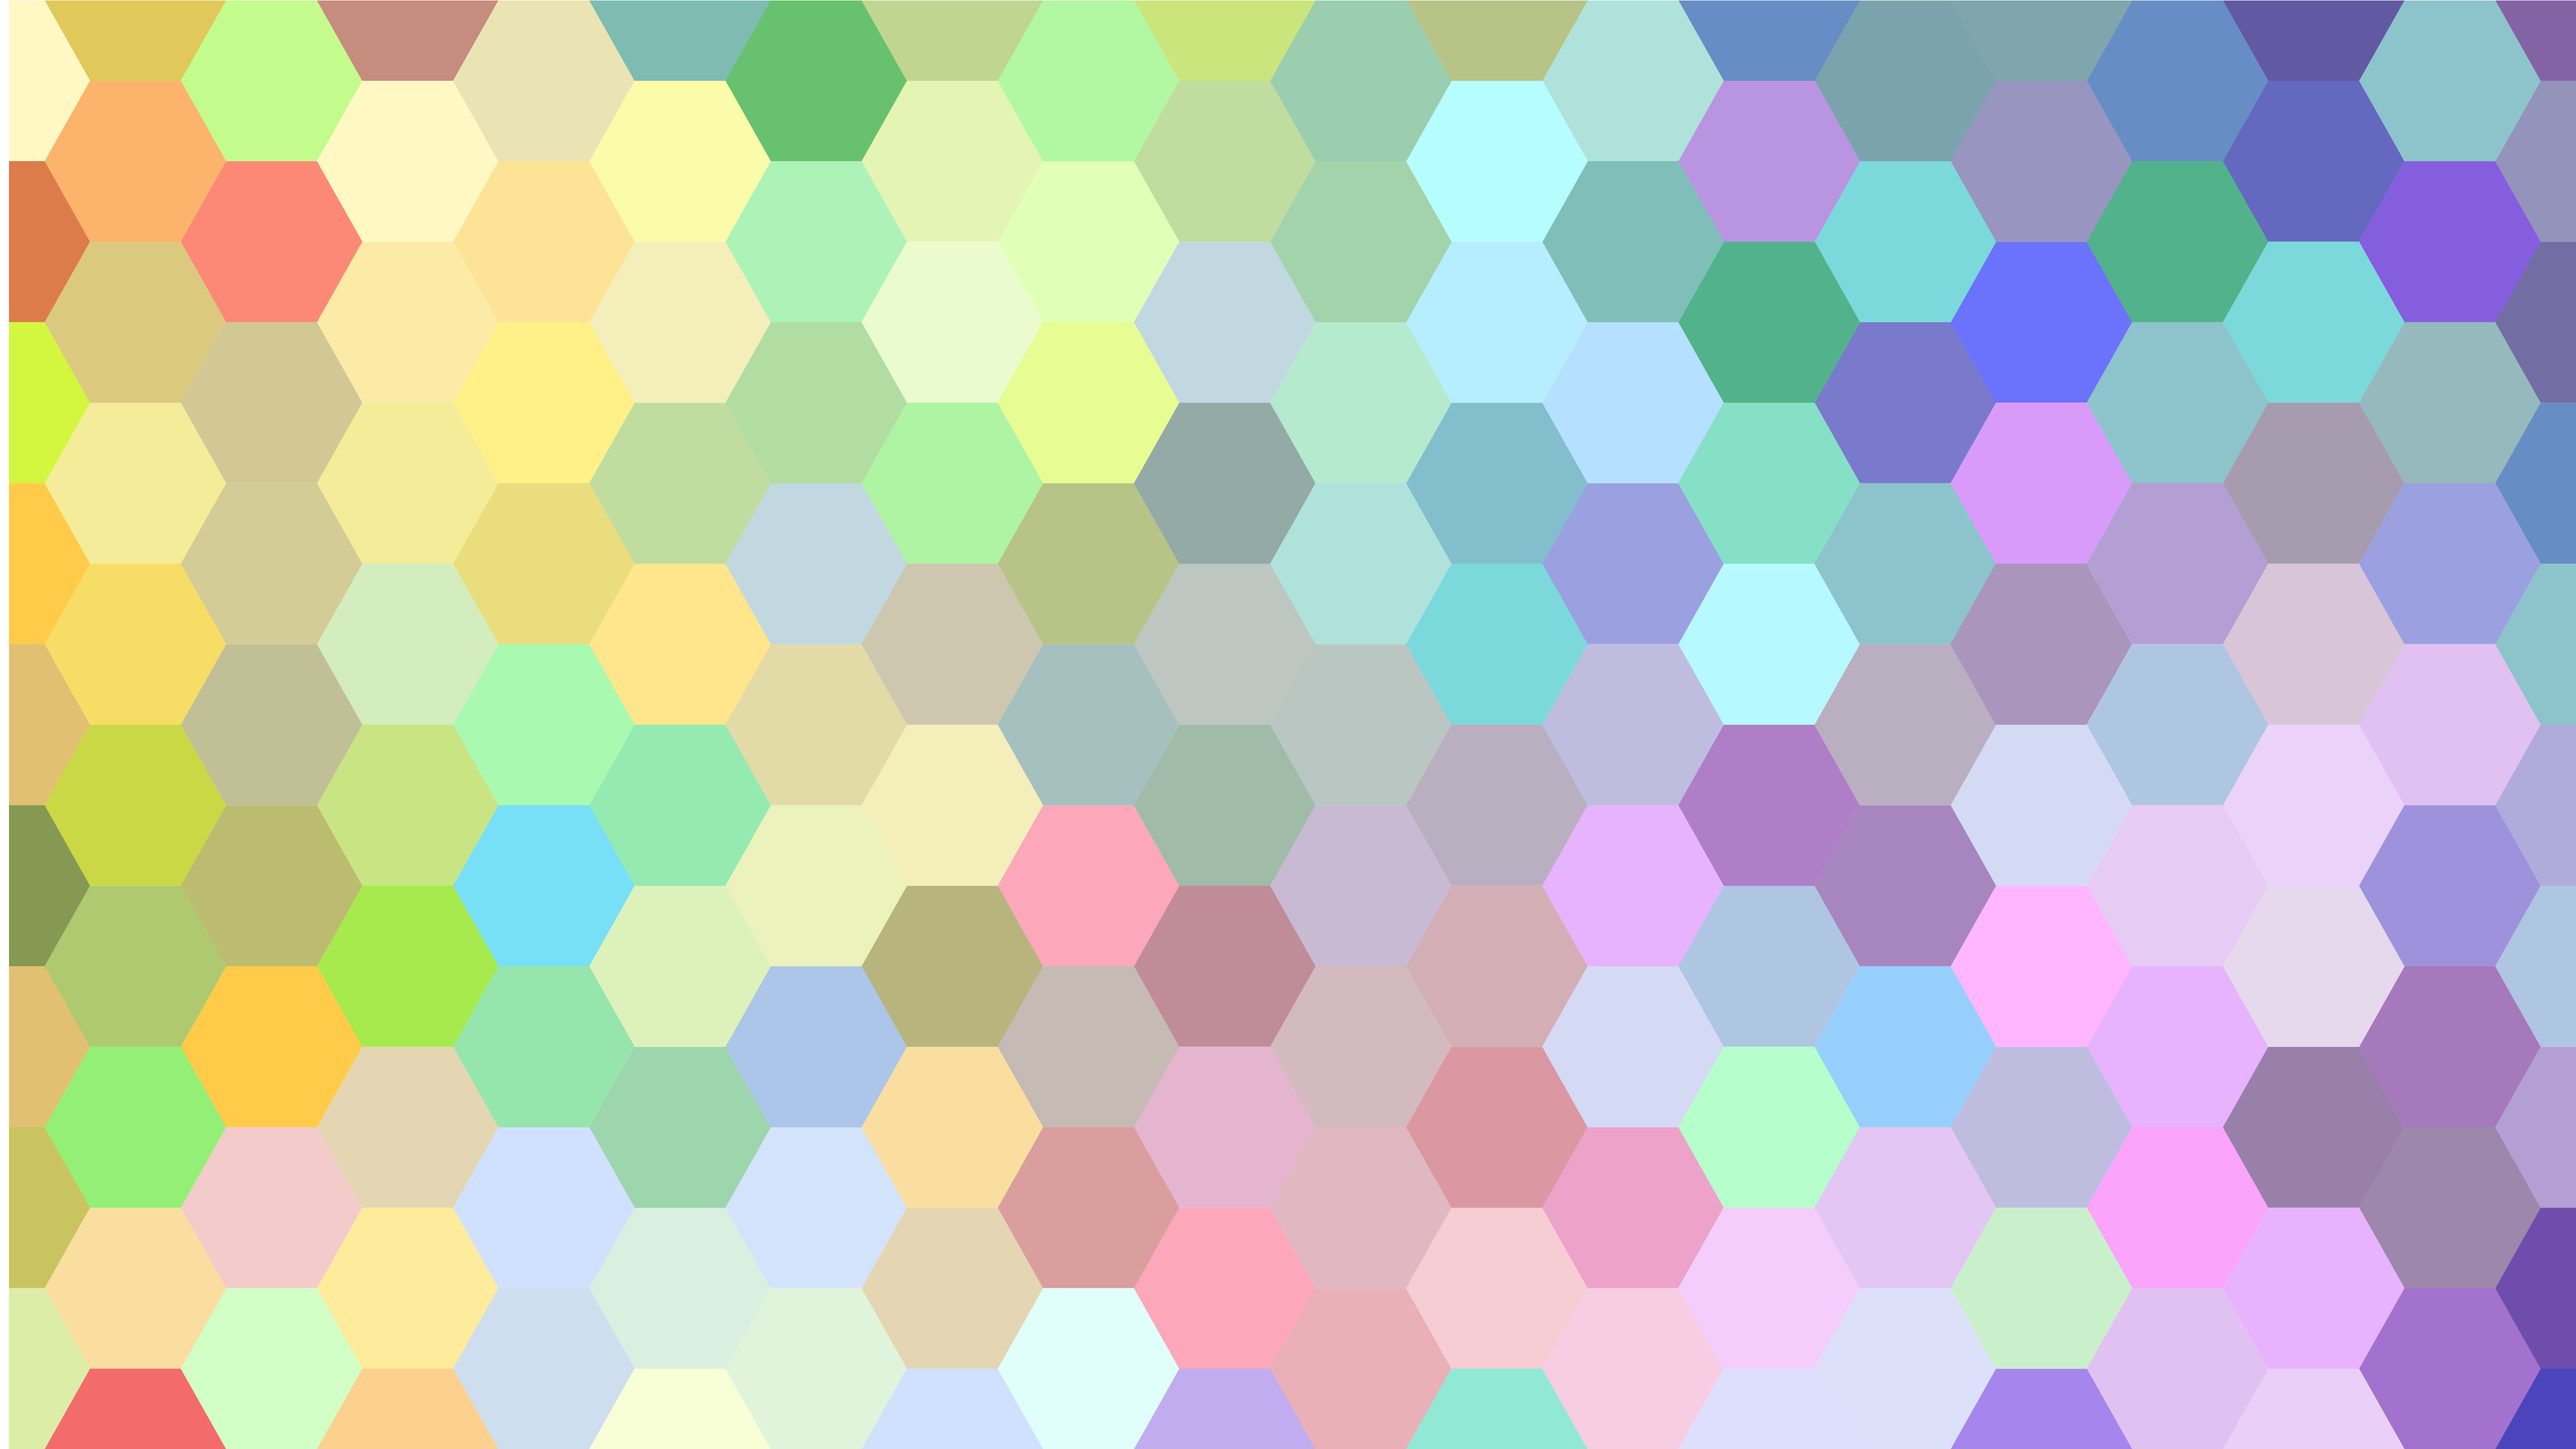
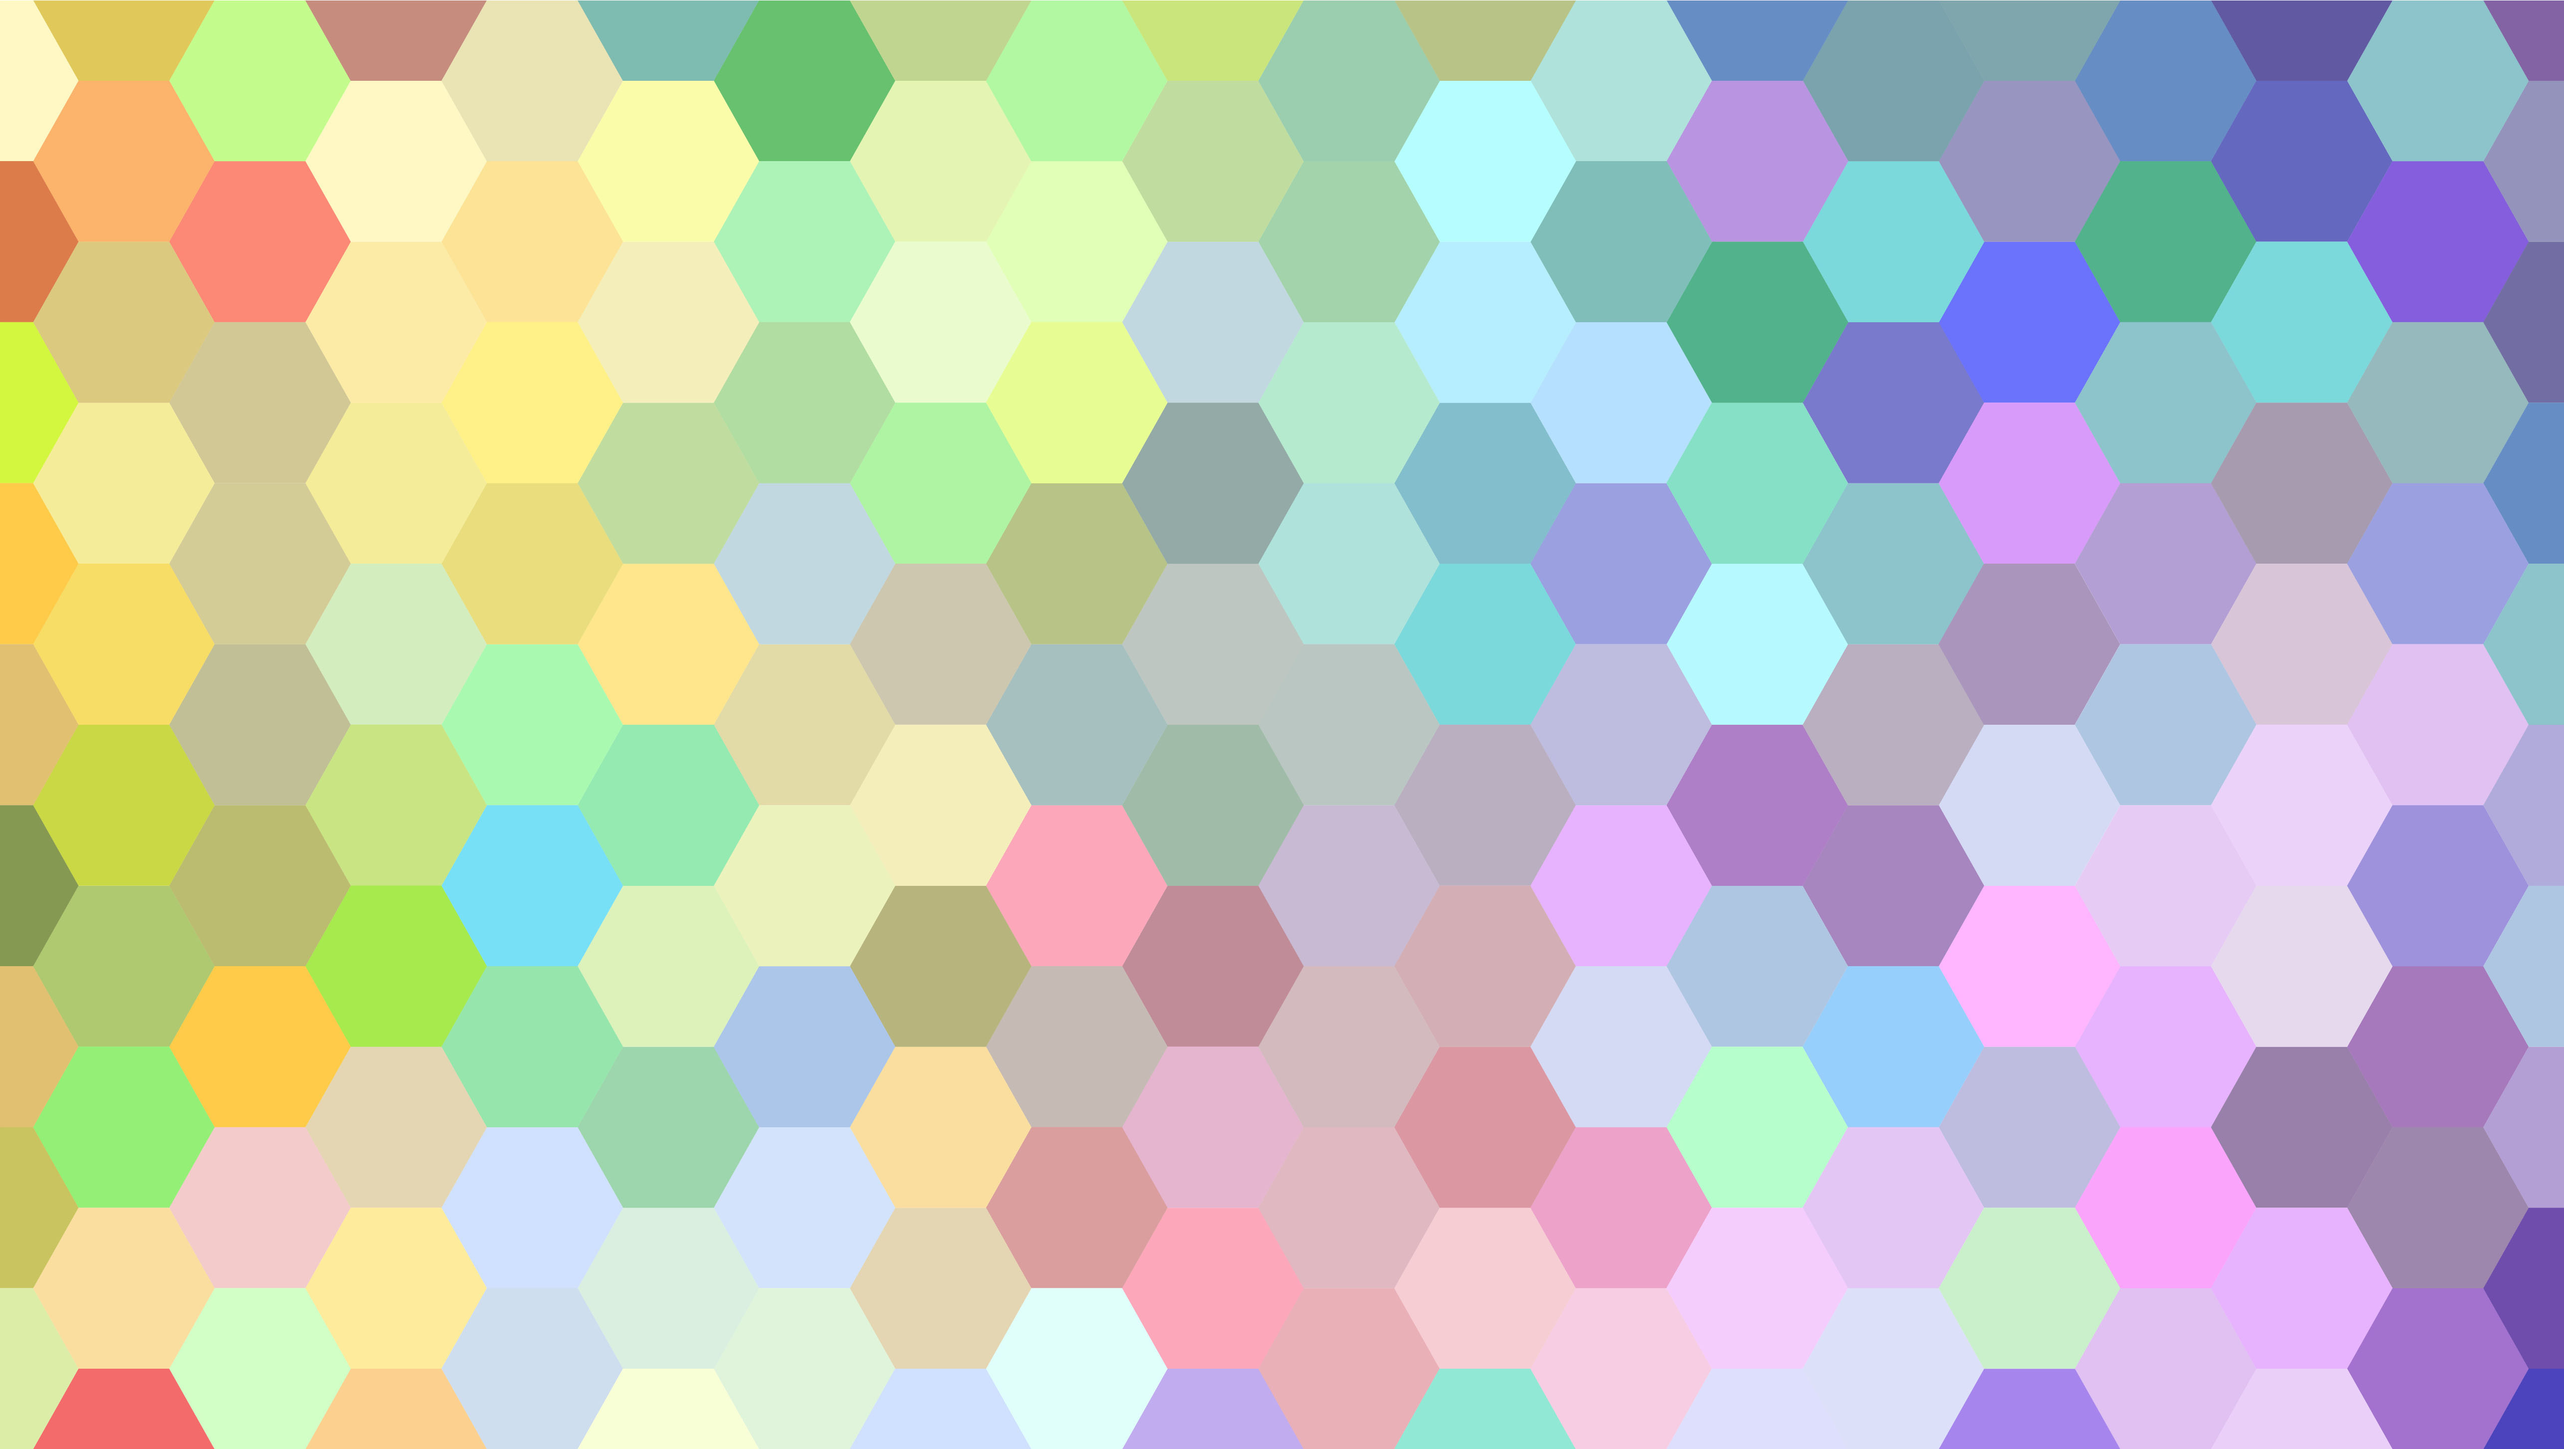
Background and main look added

diff --git a/index.html b/index.html
@@ -6,20 +6,46 @@
     <meta name="viewport" content="width=device-width, initial-scale=1.0">
     <title>Bella Santiago Portfolio</title>
 
+    <!-- Links to all outside sources -->
     <link rel="stylesheet" href="./assets/css/reset.css">
     <link rel="stylesheet" href="https://cdn.jsdelivr.net/npm/bootstrap@4.5.3/dist/css/bootstrap.min.css"
         integrity="sha384-TX8t27EcRE3e/ihU7zmQxVncDAy5uIKz4rEkgIXeMed4M0jlfIDPvg6uqKI2xXr2" crossorigin="anonymous">
-     <link rel="preconnect" href="https://fonts.gstatic.com">
+    <link rel="preconnect" href="https://fonts.gstatic.com">
     <link href="https://fonts.googleapis.com/css2?family=Quicksand&family=Ruthie&display=swap" rel="stylesheet">
     <link rel="stylesheet" href="./assets/css/style.css">
 
 </head>
 
+<!-- Body of the Page -->
 <body>
-    <div class="container-fluid">
+    <header>
+        <!-- Responsive navigation bar -->
+        <nav class="navbar navbar-expand-lg navbar-light bg-light">
+            <a class="navbar-brand nav-h1" href="#">BellaSantiago</a>
+            <button class="navbar-toggler" type="button" data-toggle="collapse" data-target="#navbarNavAltMarkup"
+                aria-controls="navbarNavAltMarkup" aria-expanded="false" aria-label="Toggle navigation">
+                <span class="navbar-toggler-icon"></span>
+            </button>
+            <div class="collapse navbar-collapse" id="navbarNavAltMarkup">
+                <div class="navbar-nav">
+                    <a class="nav-link active nav-h2" href="#">Home <span class="sr-only">(current)</span></a>
+                    <a class="nav-link nav-h2" href="./portfolio.html">Portfolio</a>
+                    <a class="nav-link" href="./contact.html">Contact</a>
+                </div>
+            </div>
+        </nav>
+    </header>
 
+    <!-- All content enclosed in container -->
+    <div class="container">
+        <div class="row">
+    <!-- Large jumbotron container with main message -->
         
+
+
+        </div>
     </div>
 </body>
+
 
 </html>

diff --git a/assets/css/style.css b/assets/css/style.css
@@ -1,0 +1,16 @@
+.nav-h1 {
+    font-family: 'Quicksand', sans-serif;
+    font-weight: bold;
+    font-size: 40px;
+}
+
+.nav-h2 {
+    font-family: 'Quicksand', sans-serif;
+    font-size: 25px;
+}
+
+body {
+    background-image: url(../images/color-background.jpeg);
+    background-repeat: no-repeat;
+    background-size: cover;
+  }
